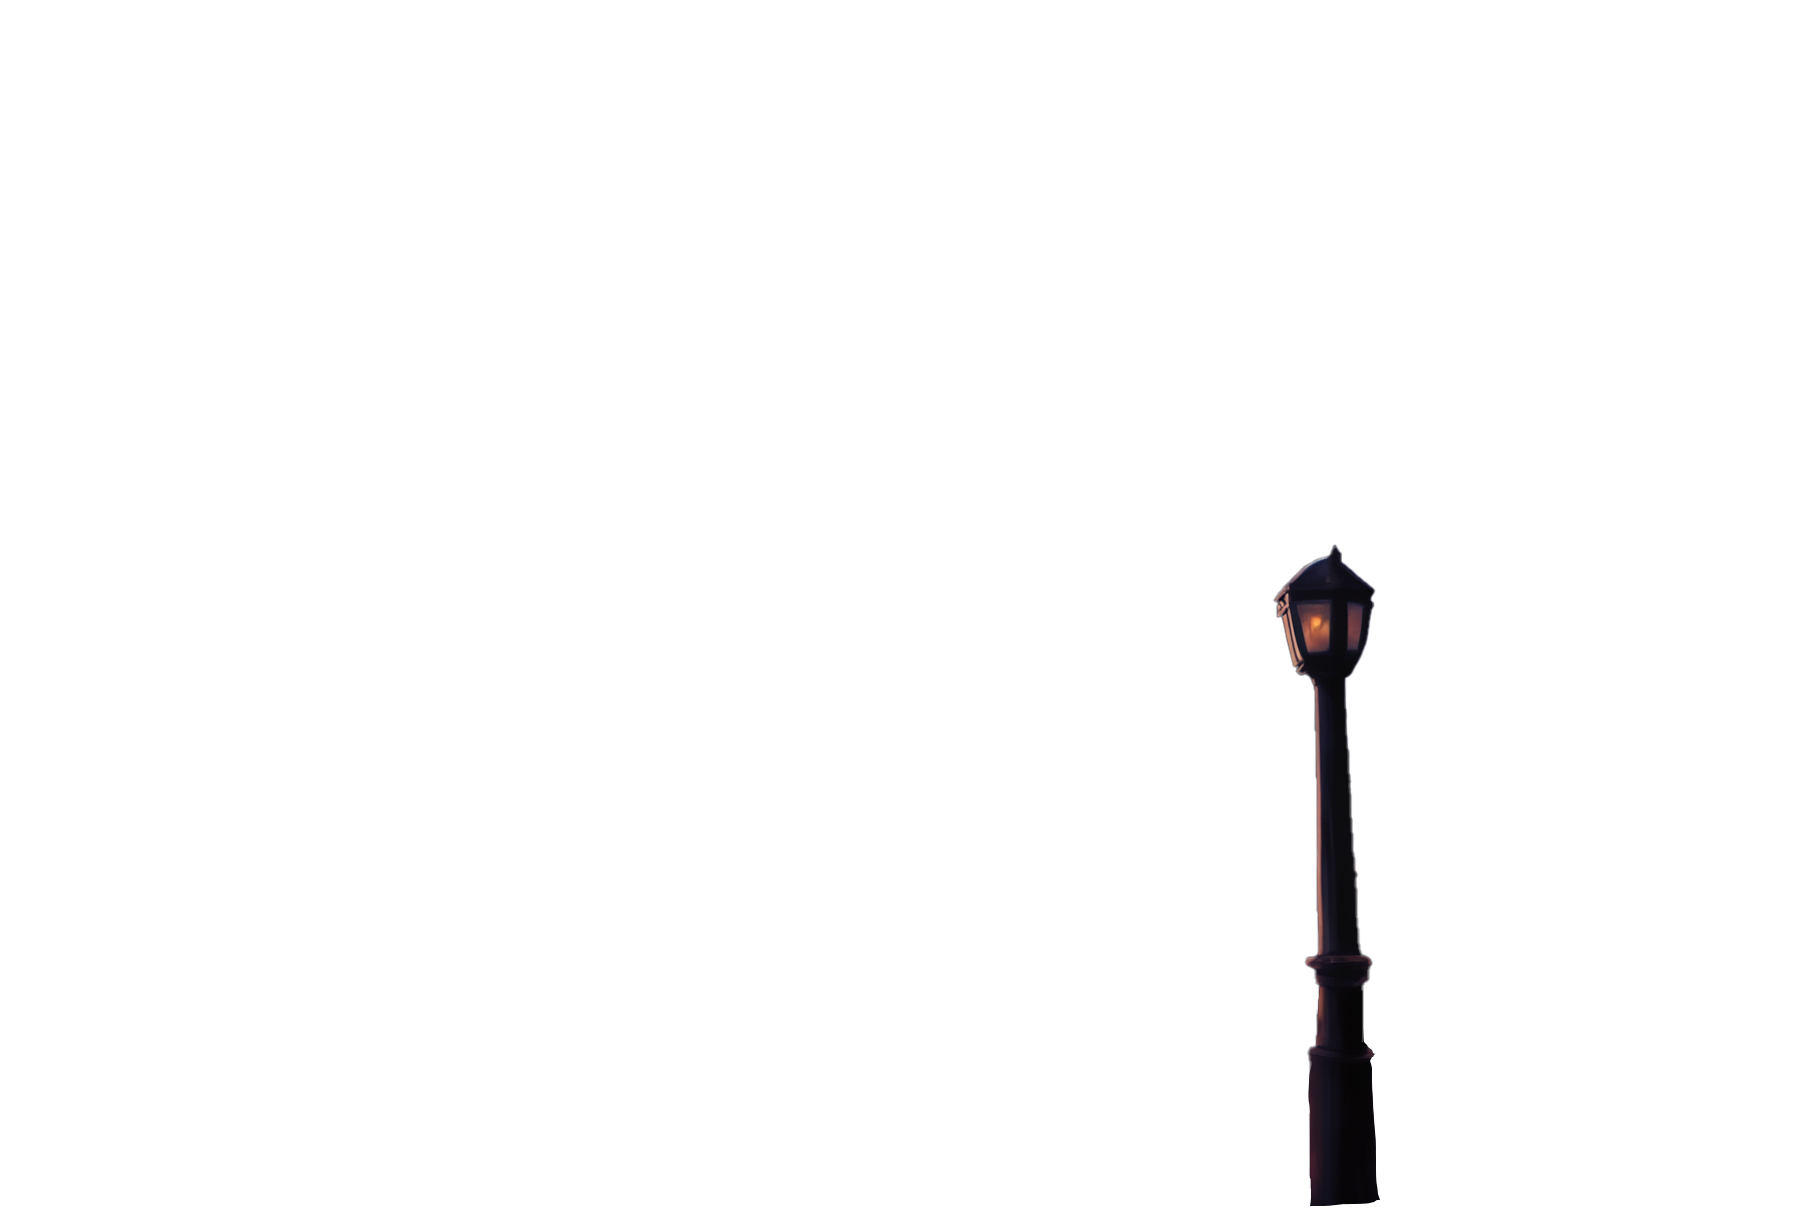
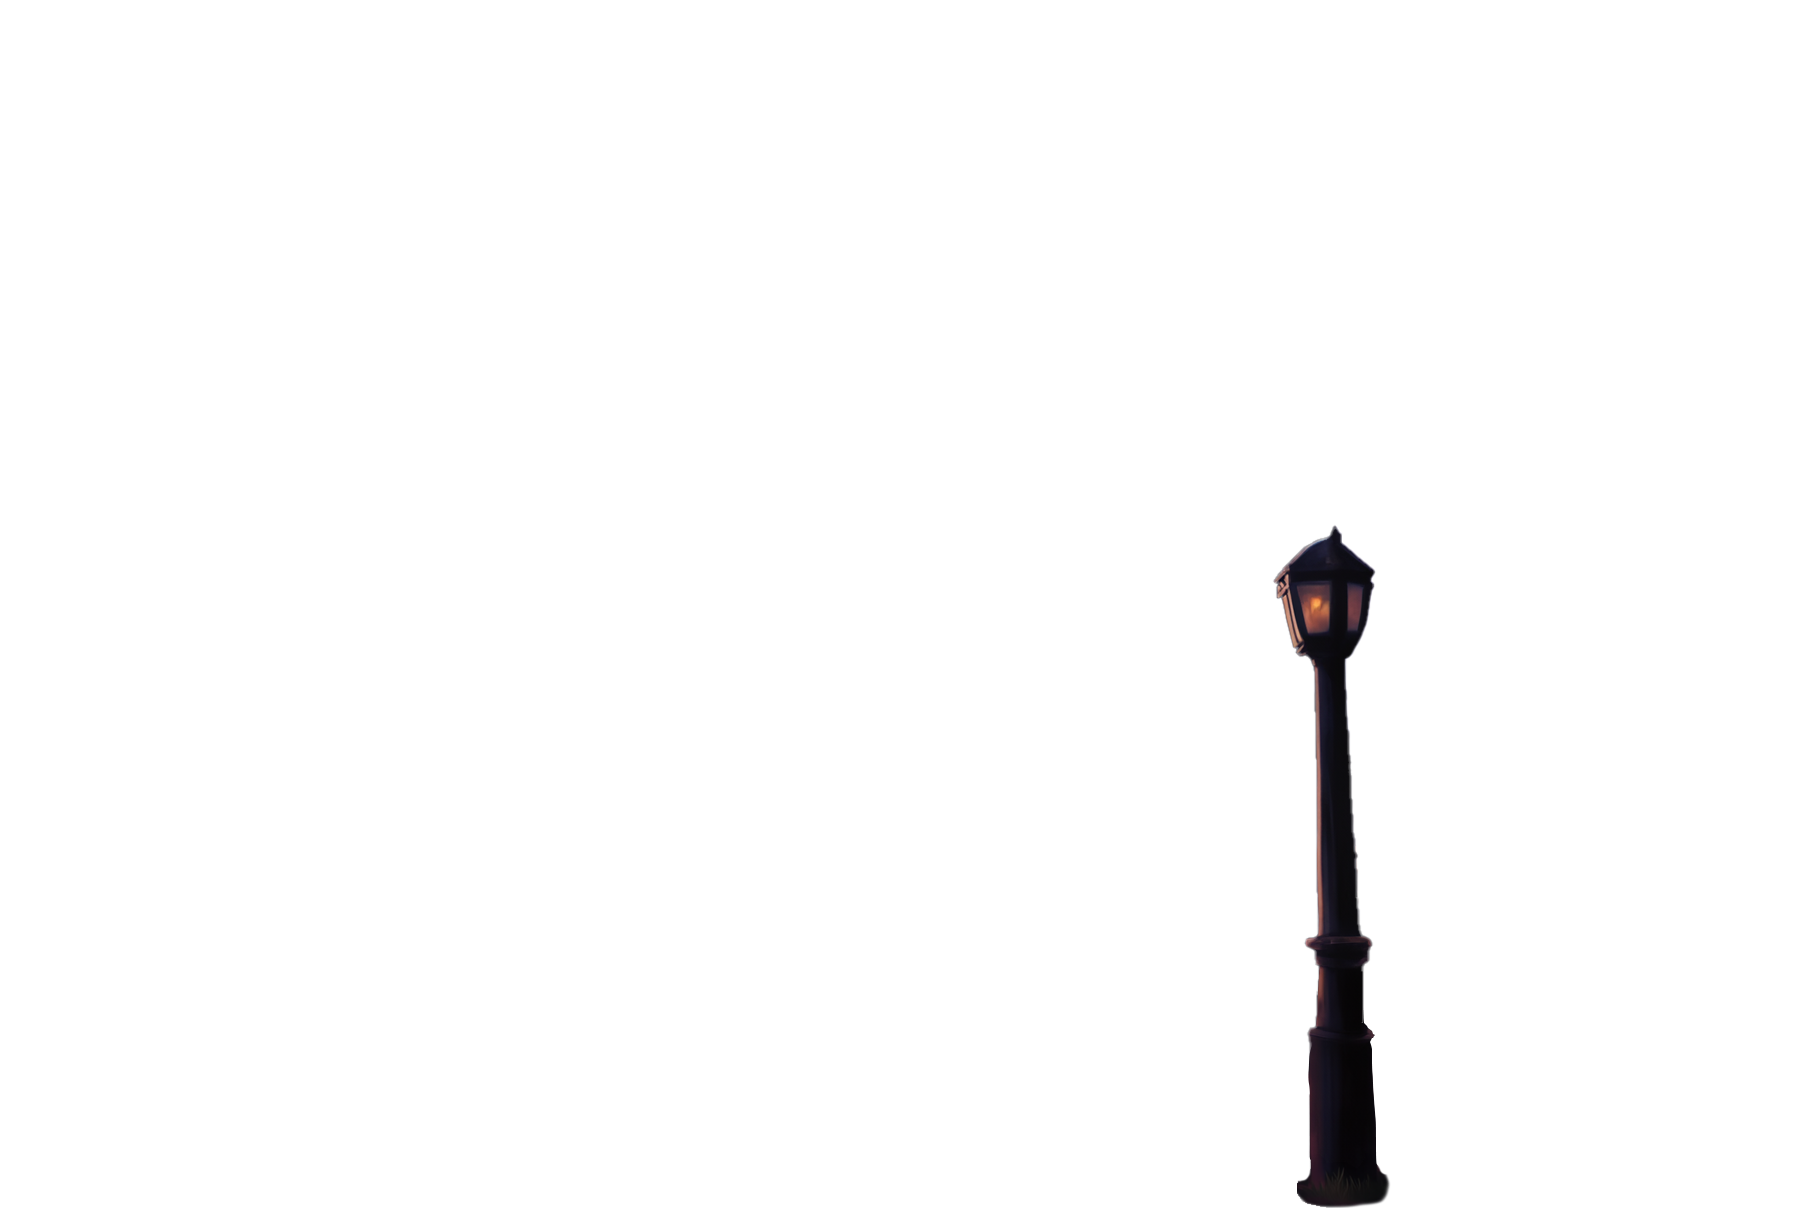
new images, new transitions to match

Changed region(s): [[0.6792, 0.4267, 0.7718, 0.5791], [0.71, 0.7619, 0.7718, 0.8839], [0.71, 0.9753, 0.7718, 1.0]]

diff --git a/src/app/page.tsx b/src/app/page.tsx
@@ -96,9 +96,9 @@ const Hero = () => {
           startScroll={0}
           endScroll={900}
           shouldAlwaysCompleteAnimation
-          style={{ width: '45%', position: 'absolute', bottom: '10%' }}
+          style={{ width: '130%', position: 'absolute', bottom: 0, left: -300}}
           scale={[1, 1.6]}
-          translateX={['50px', '-800px']}
+          translateX={['0px', '-800px']}
           translateY={['0px', '-200px']}
         >
           <img
@@ -111,13 +111,13 @@ const Hero = () => {
           endScroll={900}
           shouldAlwaysCompleteAnimation
           style={{
-            width: '40%',
+            width: '150%',
             position: 'absolute',
-            bottom: '15%',
-            right: 0,
+            bottom: 0,
+            right: -300,
           }}
           scale={[1, 1.6]}
-          translateX={['-50px', '800px']}
+          translateX={['0px', '800px']}
           translateY={['0px', '-200px']}
         >
           <img
